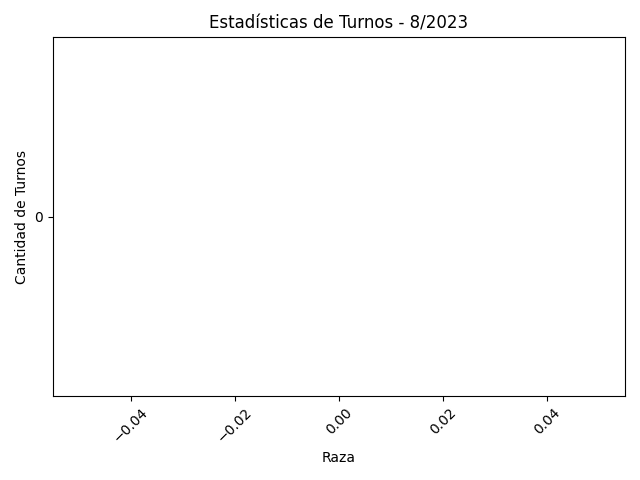
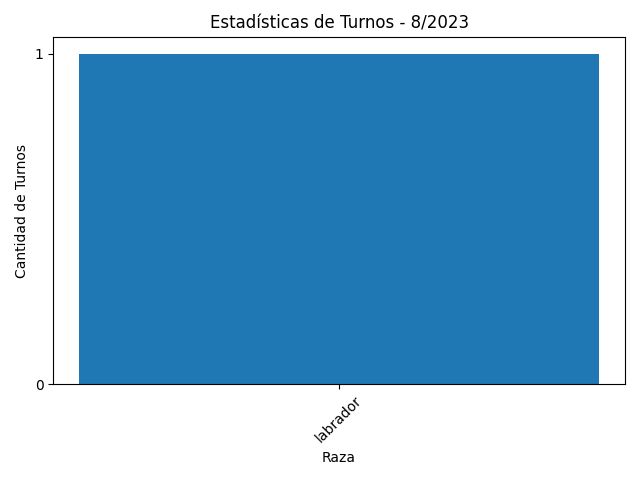
listorti

diff --git a/ohmydog/ohmydogApp/templates/agregar_ubicacion.html b/ohmydog/ohmydogApp/templates/agregar_ubicacion.html
@@ -12,13 +12,13 @@
     <title>Agregar ubicación.</title>
     <script src="https://maps.googleapis.com/maps/api/js?key=AIzaSyA5fzRrz8Xx_6BMMpCr5cyGxFZ92u22lnQ&libraries=places"></script>
     <script src="https://unpkg.com/sweetalert/dist/sweetalert.min.js"> </script>
-</head>
-<body>
     {% for msg in messages %}
     <script>
         swal('{{msg}}');
     </script>
     {% endfor %}
+</head>
+<body>
     <h1 class="titulos-format">Agregar ubicación.</h1>
     <form action="" method="POST" class="formularios"> {% csrf_token %}
         <div style= "width: 75%; margin: auto;"> 

diff --git a/ohmydog/paseadores_cuidadores/views.py b/ohmydog/paseadores_cuidadores/views.py
@@ -52,6 +52,7 @@ def listar_paseadores_cuidadores(request):
     if request.method == "POST":
         pc_a_borrar = PaseadorCuidador.objects.get(email=request.POST['paseador_cuidador.email'], tipo=request.POST['paseador_cuidador.tipo'])
         pc_a_borrar.delete()
+        messages.success(request, "Paseador/Cuidador eliminado con exito")
         return redirect("listar_paseadores_cuidadores")
 
     return render(request, "listar_paseadores_cuidadores.html", {
@@ -83,7 +84,8 @@ def modificar_paseador_cuidador(request, email, tipo):
        form = modificarPaseadorCuidador()
     return render(request, "modificar_paseador_cuidador.html", {"form": form, "paseador_cuidador": paseador_cuidador})
 
-@login_required
+@login_required(login_url='home')
+@user_passes_test(lambda u: not u.is_superuser, login_url='home') 
 def valorar_paseador_cuidador(request, pc_id):
     pc = PaseadorCuidador.objects.get(id = pc_id)
     if request.method == "POST":
@@ -97,7 +99,8 @@ def valorar_paseador_cuidador(request, pc_id):
         form = crearValoracion()
     return render(request, "valorar_paseador_cuidador.html", {"form": form, "paseador_cuidador": pc})
 
-@login_required
+@login_required(login_url='home')
+@user_passes_test(lambda u: not u.is_superuser, login_url='home') 
 def modificar_valoracion_paseador_cuidador(request, pc_id):
     pc = PaseadorCuidador.objects.get(id=pc_id)
     valoracion = Valoracion.objects.get(paseador=pc_id, cliente=request.user)
@@ -116,7 +119,8 @@ def modificar_valoracion_paseador_cuidador(request, pc_id):
     return render(request, "modificar_valoracion_paseador_cuidador.html", {"form": form, "paseador_cuidador": pc, "valoracion":valoracion})
 
 
-@login_required
+@login_required(login_url='home')
+@user_passes_test(lambda u: not u.is_superuser, login_url='home') 
 def eliminar_valoracion_paseador_cuidador(request, pc_id):
     valoracion = Valoracion.objects.get(paseador=pc_id, cliente=request.user)
     if request.method == 'POST':

diff --git a/ohmydog/perdidos/views.py b/ohmydog/perdidos/views.py
@@ -3,6 +3,7 @@ from .forms import PublicarPerroPerdido, ModificarPerroPerdido, ModificarImagen
 from django.contrib import messages
 from .models import Perdidos
 from autenticacion.models import CustomUser
+from django.contrib.auth.decorators import login_required, user_passes_test
 
 
 def ver_perros_perdidos(request):
@@ -16,7 +17,9 @@ def ver_perros_perdidos(request):
     return render(request, "ver_perros_perdidos.html", {
         "perros": perros,
         "filtrado": filtrado})
-
+    
+@login_required(login_url='home')
+@user_passes_test(lambda u: not u.is_superuser, login_url='home') 
 def publicar_perro_perdido(request):
     if request.method == 'POST':
         form = PublicarPerroPerdido(data=request.POST, files=request.FILES)
@@ -30,6 +33,8 @@ def publicar_perro_perdido(request):
         form = PublicarPerroPerdido()
     return render(request, "publicar_perro_perdido.html", {"form": form})
 
+@login_required(login_url='home')
+@user_passes_test(lambda u: not u.is_superuser, login_url='home') 
 def modificar_perro_perdido(request, id):
     perro = Perdidos.objects.get(id = id)
     if request.method == "POST":
@@ -58,7 +63,8 @@ def modificar_perro_perdido(request, id):
         form = ModificarPerroPerdido()
     return render(request, "modificar_perro_perdido.html", {"form": form, "perro": perro})
 
-
+@login_required(login_url='home')
+@user_passes_test(lambda u: not u.is_superuser, login_url='home') 
 def modificar_imagen(request, id):
     if request.method == 'POST':
         form = ModificarImagen(request.POST, request.FILES)
@@ -72,6 +78,8 @@ def modificar_imagen(request, id):
         form = ModificarImagen()
     return render(request, 'modificar_imagen.html', {'form': form})
 
+@login_required(login_url='home')
+@user_passes_test(lambda u: not u.is_superuser, login_url='home') 
 def marcar_perro_encontrado(request, id):
     perro = Perdidos.objects.get(id = id)
     perro.encontrado = True

diff --git a/ohmydog/estadisticas/views.py b/ohmydog/estadisticas/views.py
@@ -2,13 +2,14 @@ from django.shortcuts import render, HttpResponse
 import pandas as pd
 from perros.models import Perro
 from turnos.models import Turno
+from django.contrib.auth.decorators import login_required, user_passes_test
 import matplotlib.pyplot as plt
 import matplotlib
 matplotlib.use('agg')
 
 # Create your views here.
 
-
+@user_passes_test(lambda u: u.is_superuser, login_url='home') 
 def ver_estadisticas(request):
     perros = Perro.objects.all()
     if perros: 
@@ -36,7 +37,7 @@ def ver_estadisticas(request):
         estadisticas_dinamicas(request.GET.get('mes'))
     return render(request, 'estadisticas.html')
 
-
+ 
 def estadisticas_dinamicas(mes):
     turnos = Turno.objects.filter(fecha__month=mes, fecha__year=2023)
     razas = turnos.values_list('perro__raza', flat=True)

diff --git a/ohmydog/ohmydogApp/views.py b/ohmydog/ohmydogApp/views.py
@@ -186,7 +186,7 @@ def agregar_ubicacion(request):
         form = AgregarVeterinaria(request.POST, initial={'calle': 'Calle '})
         if form.is_valid():
             if not (form.cleaned_data['calle'].startswith("Calle ")):
-                messages.error(request, 'La calle debe empezar con la plabra ''Calle '' antes del numero')
+                messages.error(request, 'La calle debe empezar con <Calle > antes del numero')
                 return redirect('agregar_ubicacion')
             direccion = f"{form.cleaned_data['calle']} {form.cleaned_data['nro_calle']}, La Plata, Provincia de Buenos Aires"
             api_key = "AIzaSyA5fzRrz8Xx_6BMMpCr5cyGxFZ92u22lnQ"

diff --git a/ohmydog/ohmydogApp/forms.py b/ohmydog/ohmydogApp/forms.py
@@ -44,7 +44,7 @@ class AgregarVeterinaria(forms.ModelForm):
         exclude = ['longitud', 'latitud']
 
 class EditarVeterinaria(forms.ModelForm):
-     detalle = forms.CharField(required=False, label='Detalle (*)')
+     detalle = forms.CharField(required=False, label='Detalle (opcional)')
      nro_calle = forms.IntegerField(label='Número')
 
      class Meta:
